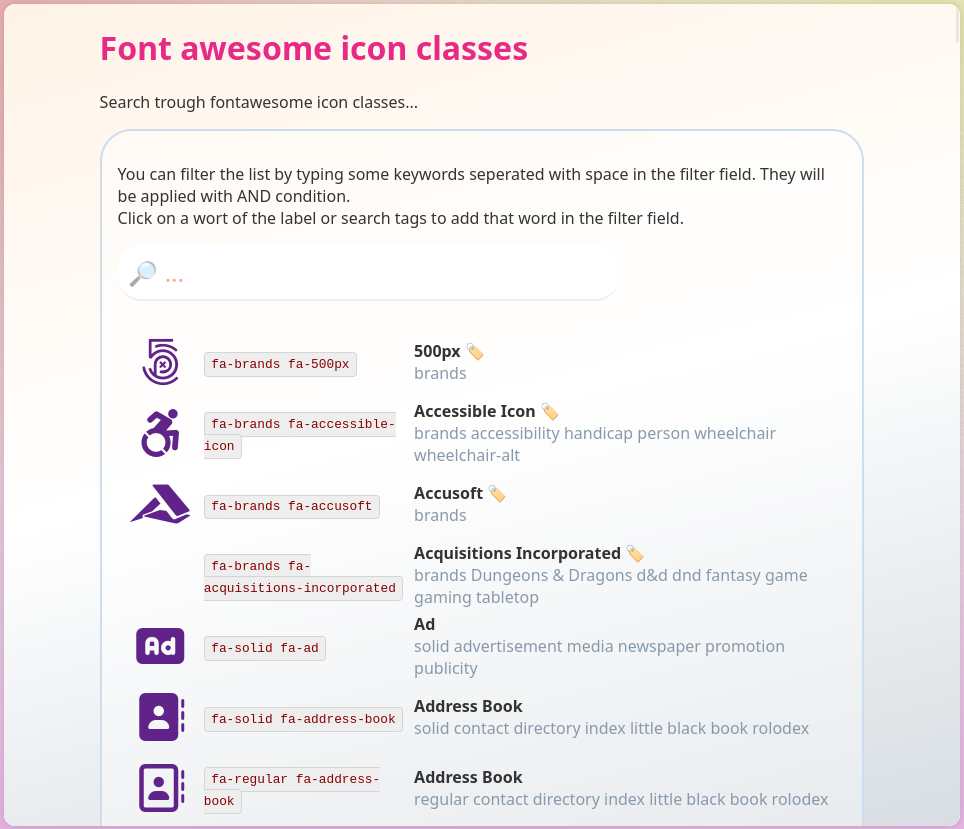
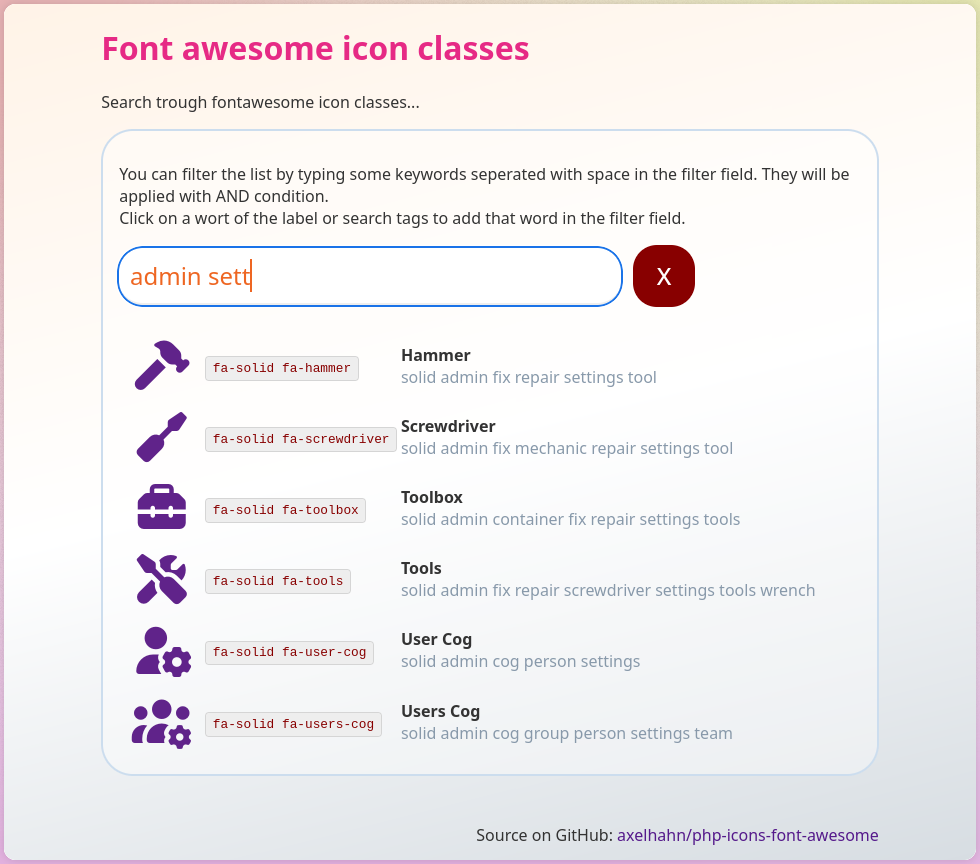
add link in footer

diff --git a/main.css b/main.css
@@ -33,6 +33,13 @@ code{
     font-family: 'Courier New', Courier, monospace;
     padding: 0.3em 0.5em;
 }
+
+footer{
+    text-align: right;
+}
+footer a{
+    text-decoration: none;
+}
 h1{
     color: rgb(230, 42, 133);
 }
@@ -68,7 +75,7 @@ div.main{
     border: 2px solid #cde;
     border-radius: 2em;
     padding: 1em;
-    margin-bottom: 10em;
+    margin-bottom: 3em;
     min-width: 38em;;
 }
 .search a{

diff --git a/index.php b/index.php
@@ -48,6 +48,10 @@
         </table>
     </div>
 
+    <footer>
+        Source on GitHub: <a href="https://github.com/axelhahn/php-icons-font-awesome" target="_blank">axelhahn/php-icons-font-awesome</a>
+    </footer>
+
     <script type="text/javascript" language="javascript" src="/js/functions.js"></script>
 </body>
 </html>

diff --git a/README.md b/README.md
@@ -40,3 +40,5 @@ php -S localhost:9000
 ```
 
 Then open in your webbrowser: <http://localhost:9000>
+
+In the search field type some keywords and click on a word of the label or search tags to add that word in the filter field. All keywords will be applied with AND condition. 
